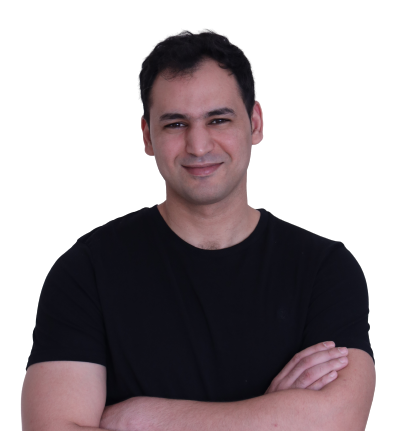
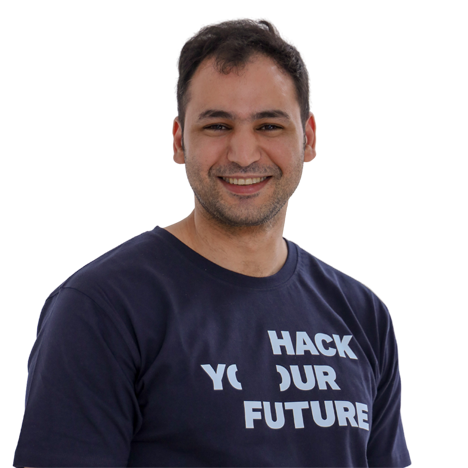
changed profile pic, edited coding svg image, fixed typos

diff --git a/src/components/Courses/CoursesComponent.js b/src/components/Courses/CoursesComponent.js
@@ -15,13 +15,11 @@ export default function CoursesComponent() {
           <h2>Courses</h2>
           <TwoLines title={"HackYourFuture Coding School"} />
           <p>
-            {`8+ month of intensive study to fully prepare students for a Full
+            {`8+ months of intensive study to fully prepare students for a Full
             Stack Web Developer role using the latest technologies in the web
-            development industry. The curriculum consist of a React, Node, Javascript, HTML, CSS, MySQL and Git
+            development industry. The curriculum consists of React, Node, Javascript, HTML, CSS, MySQL and Git
             modules among others. Students also learn how to work in team,
-             and get prepared for the job market.
-            Futhermore students get mentored by founders and employees of great
-            companies such Elasticsearch and Zendesk.`}
+             and get prepared for the job market.`}
           </p>
           <div>
             <a href={hyf_URL} target="_blank" rel="noreferrer">

diff --git a/src/components/JobExperience/JobExperienceComponent.js b/src/components/JobExperience/JobExperienceComponent.js
@@ -16,11 +16,11 @@ export default function JobExperienceComponent() {
         <TwoLines title={"Brink Transport"} />
         <div>
           <p>
-            Brink transport is a danish transport company. My daily activities
-            at the company changed every day depending of the needs, some of the
-            roles that I had conisted of help plan the route for the drivers in
-            Sjælland, sort goods, deliver packages, drive trucks to mechanics
-            for service or reparation among other things.
+            Brink transport is a Danish transport company. My daily activities
+            at the company changed every day depending on the needs, some of the
+            roles that I had consisted of: help plan the route for the drivers
+            in Sjælland, sort goods, deliver packages, drive trucks to the
+            mechanic for service or reparation, among other things.
           </p>
         </div>
         <TwoLines title={"PcBox/Let's Play"} />

diff --git a/src/components/ProjectsComponent/ProjectsComponent.js b/src/components/ProjectsComponent/ProjectsComponent.js
@@ -43,7 +43,7 @@ const arr = [
     image: cloudpackImg,
     image2: cloudpack2Img,
     description:
-      "A fully working system consisting of an app & an admin panel to track damaged packages. The app can be used to scan a barcode, add a comment & take pictures of the damaged package, to later visualize that data on the admin wesite, and sent it by inbuit email if needed. ",
+      "A fully working system consisting of an app & an admin panel to track damaged packages. The app can be used to scan a barcode, add a comment & take pictures of the damaged package, to later visualize that data on the admin panel.",
     skills: [
       "mongoDB",
       "express",

diff --git a/src/components/HeaderCard/HeaderCard.js b/src/components/HeaderCard/HeaderCard.js
@@ -45,7 +45,7 @@ export default function HeaderCard({
     //  add event listener to know when the mouse entered the container
     containerRef.current.addEventListener("mouseenter", e => {
       picRef.current.style.transform =
-        "scaleX(0.9) scaleY(0.9) translateZ(30px)"
+        "scaleX(0.9) scaleY(0.9) translateZ(50px)"
       titleRef.current.style.transform = "translateZ(150px)"
       descriptionRef.current.style.transform = "translateZ(80px)"
       btnRef.current.style.transform = "translateZ(150px)"

diff --git a/src/components/HeaderCard/HeaderCard.css b/src/components/HeaderCard/HeaderCard.css
@@ -31,7 +31,7 @@
   justify-content: center;
 }
 .profile-img {
-  max-width: 12.2rem;
+  max-width: 12.5rem;
   z-index: 2;
   border-radius: 50%;
   transition: all 0.3s ease-out;

diff --git a/src/components/BackgroundSVG/BackgroundSVG.css b/src/components/BackgroundSVG/BackgroundSVG.css
@@ -4,7 +4,7 @@
 }
 .coding-background {
   z-index: 0;
-  width: 24%;
+  width: 26%;
 }
 
 .contact-human {
